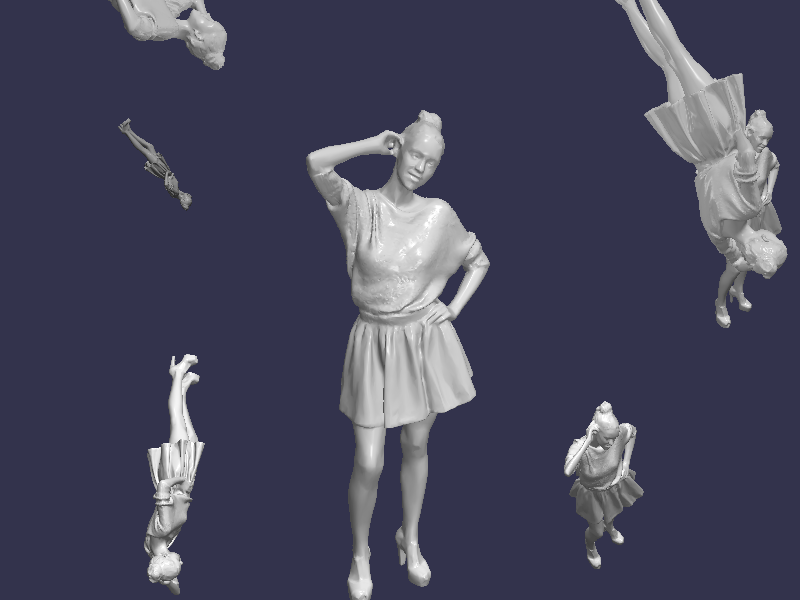
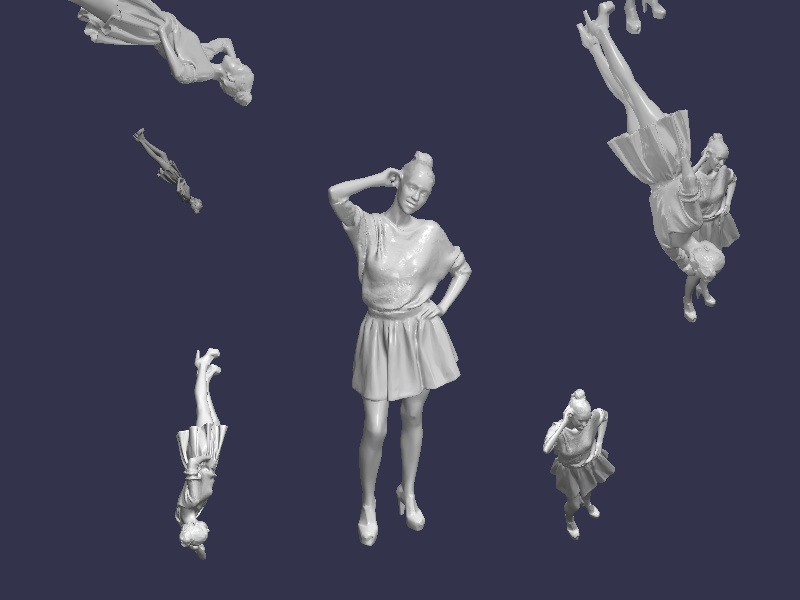
allow to set exact distance when setting the camera

diff --git a/Photographer/Photographer.cpp b/Photographer/Photographer.cpp
@@ -119,11 +119,18 @@ void Photographer::setObject(GeneralMesh * object)
     object_ = object;
 }
 
-void Photographer::addCameraToPosition(float x, float y, float z)
+void Photographer::addCameraToPosition(float x, float y, float z, float dist)
 {
     Camera camera(win_width_, win_height_);
-    camera.setPosition(glm::vec3(x, y, z));
 
+    glm::vec3 position = glm::vec3(x, y, z);
+    if (dist > 0.0)
+    {
+        position -= default_camera_target_;
+        position = dist * glm::normalize(position);
+    }
+    
+    camera.setPosition(position);
     camera.setTarget(default_camera_target_);
 
     image_cameras_.push_back(camera);

diff --git a/Photographer/main.cpp b/Photographer/main.cpp
@@ -11,9 +11,9 @@ int main()
 
     Photographer photographer(&object);
 
-    photographer.addCameraToPosition(0.0f, 1.0f, 3.0f);
-    photographer.addCameraToPosition(0.0f, -1.0f, -2.0f);
-    photographer.addCameraToPosition(-1.0f, 1.0f, 3.0f);
+    photographer.addCameraToPosition(0.0f, 1.0f, 3.0f, 4.0f);
+    photographer.addCameraToPosition(0.0f, -1.0f, -2.0f, 4.0f);
+    photographer.addCameraToPosition(-1.0f, 1.0f, 3.0f, 4.0f);
 
     photographer.renderToImages("./images/");
     photographer.saveImageCamerasParamsCV("./images/");

diff --git a/Photographer/Photographer.h b/Photographer/Photographer.h
@@ -34,7 +34,9 @@ public:
     void saveImageCamerasParamsCV(const std::string path = "./");
 
     void setObject(GeneralMesh* object);
-    void addCameraToPosition(float x, float y, float z);
+    // allows to specify either absolute position
+    // or direction + distance to target (if dist is set)
+    void addCameraToPosition(float x, float y, float z, float dist = -1.0);
 
 private:
     static constexpr const char* const vertex_shader_path_ = "./Shaders/VertexShader.glsl";
